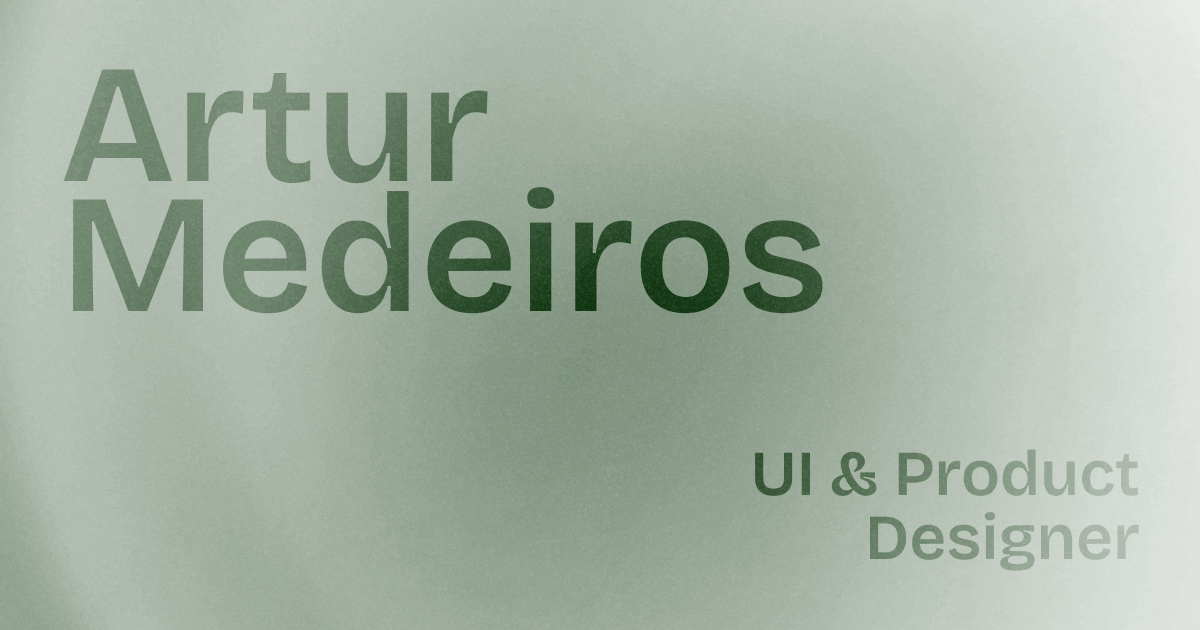
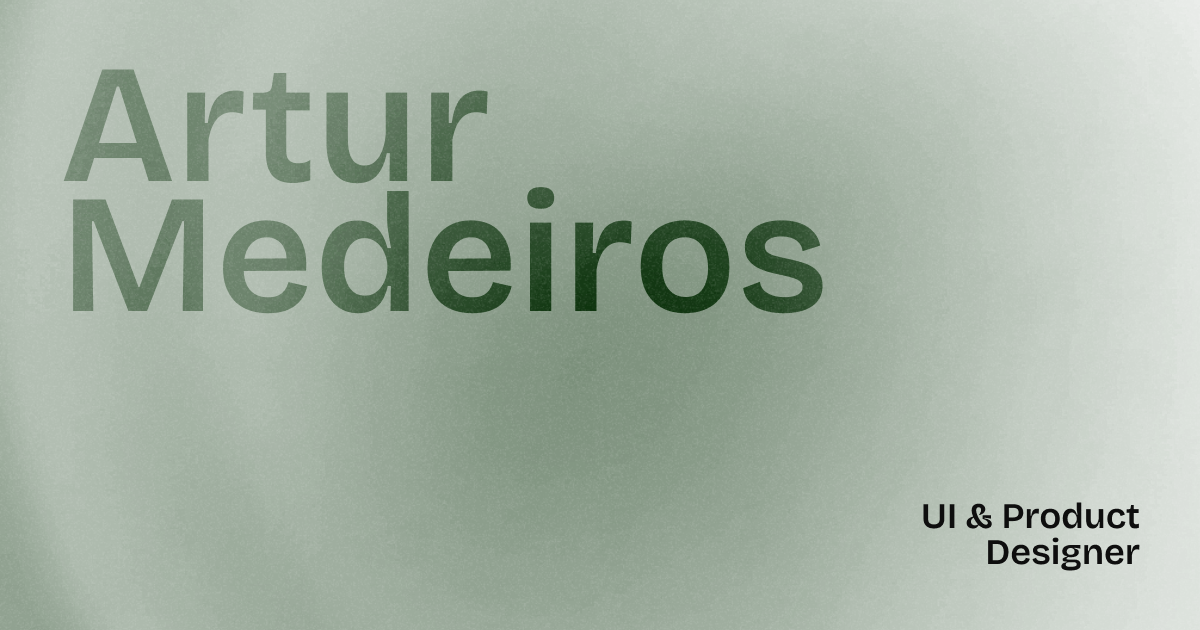
opengraph and metadata updates

Changed region(s): [[0.6167, 0.6937, 0.9558, 0.9048]]

diff --git a/app/layout.tsx b/app/layout.tsx
@@ -21,11 +21,11 @@ export const metadata: Metadata = {
   metadataBase: new URL("https://artur-medeiros.vercel.app"),
   title: "Artur Medeiros — UI & Product Designer",
   description:
-    "UI & Product Designer based in São Paulo. An evergreen archive of projects, writing and experiments.",
+    "UI & Product Designer de São Paulo. Um arquivo evergreen de projetos, escritos e experimentos.",
   openGraph: {
     title: "Artur Medeiros — UI & Product Designer",
     description:
-      "UI & Product Designer based in São Paulo. An evergreen archive of projects, writing and experiments.",
+      "UI & Product Designer baseado em São Paulo. Um arquivo evergreen de projetos, escritos e experimentos.",
     url: "https://artur-medeiros.vercel.app",
     siteName: "Artur Medeiros",
     locale: "pt_BR",
@@ -35,7 +35,7 @@ export const metadata: Metadata = {
     card: "summary_large_image",
     title: "Artur Medeiros — UI & Product Designer",
     description:
-      "UI & Product Designer based in São Paulo. An evergreen archive of projects, writing and experiments.",
+      "UI & Product Designer baseado em São Paulo. Um arquivo evergreen de projetos, escritos e experimentos.",
   },
 };
 

diff --git a/components/home-sections/Hero.tsx b/components/home-sections/Hero.tsx
@@ -38,20 +38,18 @@ export function Hero() {
         </p>
         <p>
           Atualmente construindo um portfólio{" "}
-          <span className="hover:text-green-700 ">
-            evergreen
-          </span>{" "}
-          de projetos, textos e experimentos.
+          <span className="hover:text-green-700 ">evergreen</span> de projetos,
+          textos e experimentos.
         </p>
       </motion.div>
-      <div className="flex flex-col gap-4 absolute bottom-2 left-1/2 -translate-x-1/2 items-center">
+      <div className="flex flex-col gap-4 absolute bottom-2 left-1/2 -translate-x-1/2 items-center font-bricolage">
         <motion.p
           initial={{ opacity: 0, y: 12 }}
           animate={{ opacity: 1, y: 0 }}
           transition={{ duration: 0.7, delay: 0.1, ease: "easeOut" }}
           className="text-center text-gs-700 md:mt-10"
         >
-          Currently based in São Paulo, Brasil. <br />
+          @ são paulo ↔ brasil <br />
           <span className="hidden md:block mix-blend-multiply text-green-900/50">
             ฅ^•ﻌ•^ฅ
           </span>
